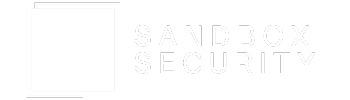
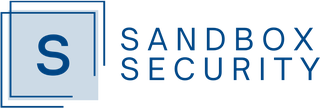
feat(web): add five Middle East partners to the partner network
Paramount Assure, Gulf IT, Sechpoint Tech and Sandbox Security (all
Dubai, UAE) plus TecCentric (Doha, Qatar). Locations come from each
partner's own contact page rather than the region tab: Sechpoint labels
Dubai its head office, Gulf IT calls Dubai Internet City its UAE hub,
and TecCentric lists Doha as its only office.

The region now shows seven cards, still under INITIAL_VISIBLE, so no
View More toggle appears.

Logos are the vendors' own dark-on-light variants, since the cards are
white. Gulf IT's root carried width/height="100%", which leaves an <img>
with no intrinsic aspect ratio, so those are pinned to its viewBox.
Sechpoint's mm-sized root is left as-is — it already matches its
viewBox ratio. Sandbox Security publishes only a raster embedded in an
SVG wrapper, so that was extracted, alpha-trimmed and downscaled; it
replaces the orphaned white-on-transparent sandbox-security.png that
was left behind when CisoEnterprise was removed and which nothing
referenced. Paramount publishes nothing wider than 165px, so its card
logo is ~2x at the 36px render height — swap in a vector if they
provide one.

diff --git a/apps/web/src/components/sections/partners/PartnersNetwork.tsx b/apps/web/src/components/sections/partners/PartnersNetwork.tsx
@@ -74,6 +74,31 @@ const PARTNERS: Record<Region, Partner[]> = {
       country: "Dubai, UAE",
       logo: "/images/partners/global/help-ag-logo-2048x603.png",
     },
+    {
+      name: "Paramount Assure",
+      country: "Dubai, UAE",
+      logo: "/images/partners/global/paramount.png",
+    },
+    {
+      name: "Gulf IT",
+      country: "Dubai, UAE",
+      logo: "/images/partners/global/gulf-it.svg",
+    },
+    {
+      name: "Sechpoint Tech",
+      country: "Dubai, UAE",
+      logo: "/images/partners/global/sechpoint.svg",
+    },
+    {
+      name: "Sandbox Security",
+      country: "Dubai, UAE",
+      logo: "/images/partners/global/sandbox-security.png",
+    },
+    {
+      name: "TecCentric",
+      country: "Doha, Qatar",
+      logo: "/images/partners/global/teccentric.svg",
+    },
   ],
   "North America": [
     {
